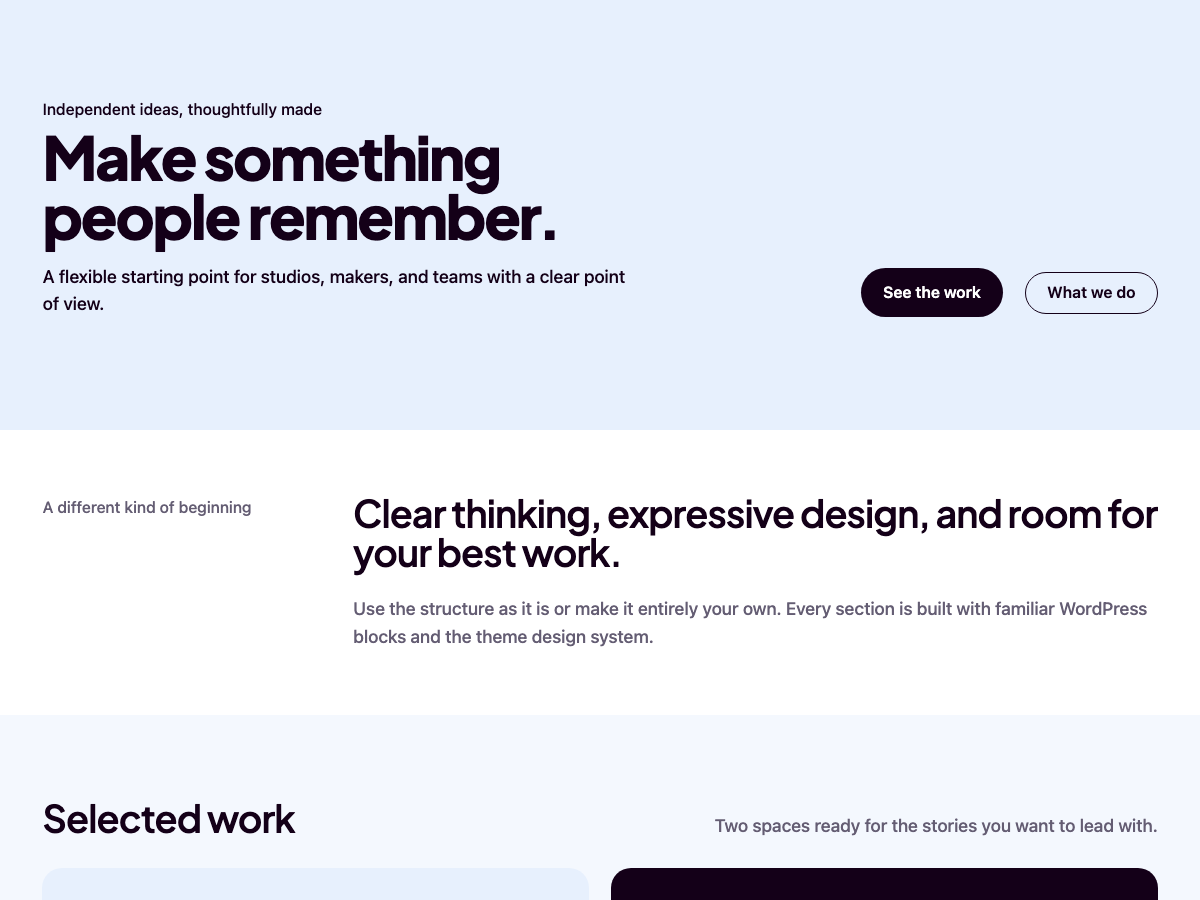
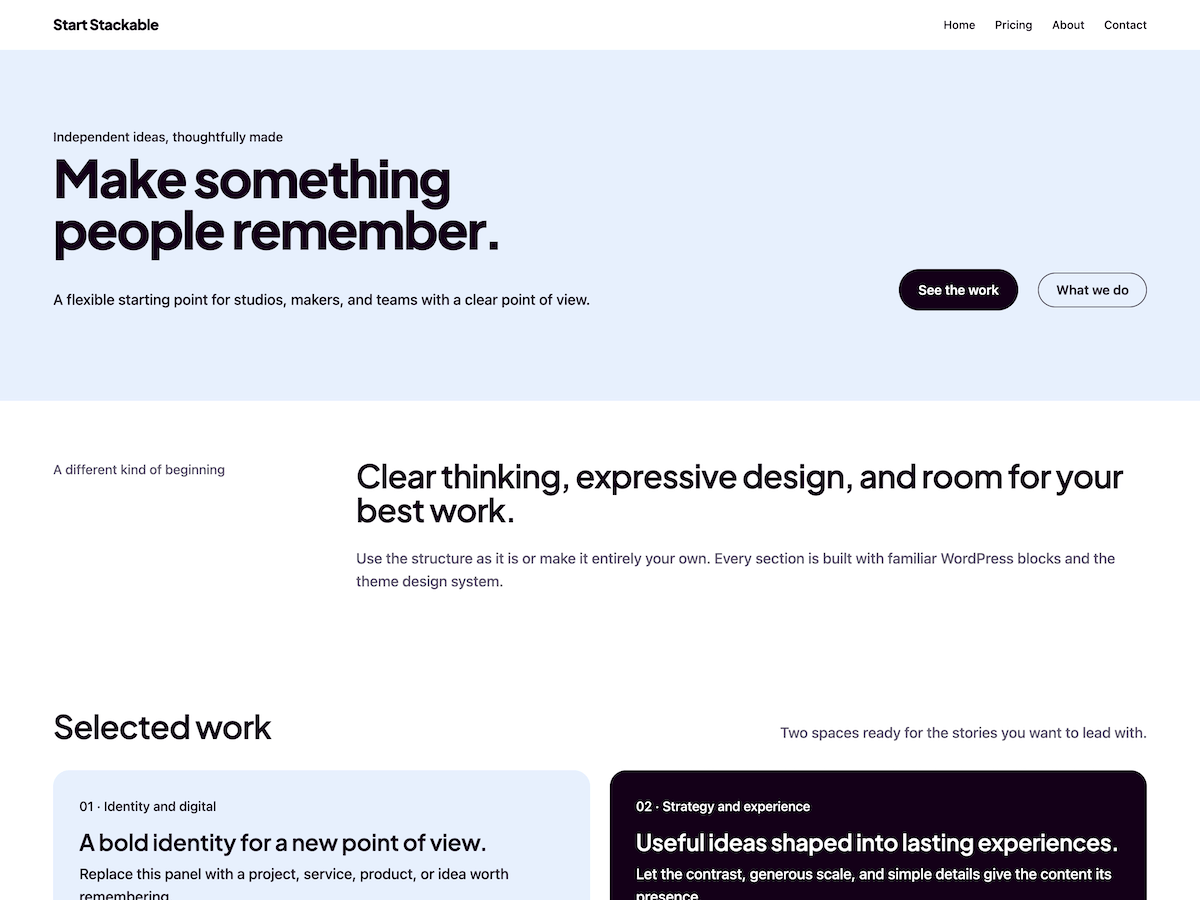
chore: updated screenshot and added copyright

diff --git a/style.css b/style.css
@@ -7,9 +7,12 @@ Description: A block theme shell for Stackable Site Kits. Complete on its own (b
 Requires at least: 6.9
 Tested up to: 7.1
 Requires PHP: 7.2
-Version: 1.0.0
+Version: 1.0.2
 License: GPLv2 or later
 License URI: https://www.gnu.org/licenses/gpl-2.0.html
 Text Domain: start-stackable
 Tags: blog, block-patterns, custom-colors, custom-menu, e-commerce, editor-style, featured-images, full-site-editing, rtl-language-support, style-variations, wide-blocks
+
+Start Stackable WordPress Theme, Copyright 2026 Gambit Technologies Inc.
+Start Stackable is distributed under the terms of the GNU GPL.
 */
